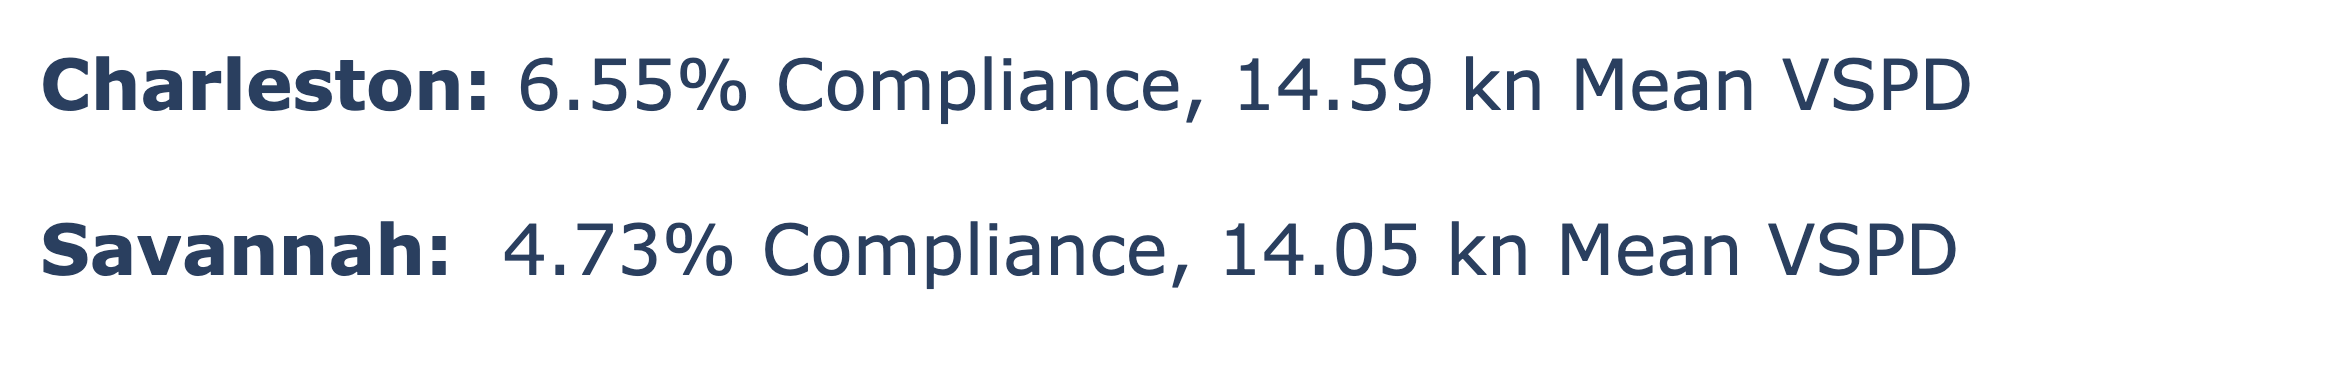
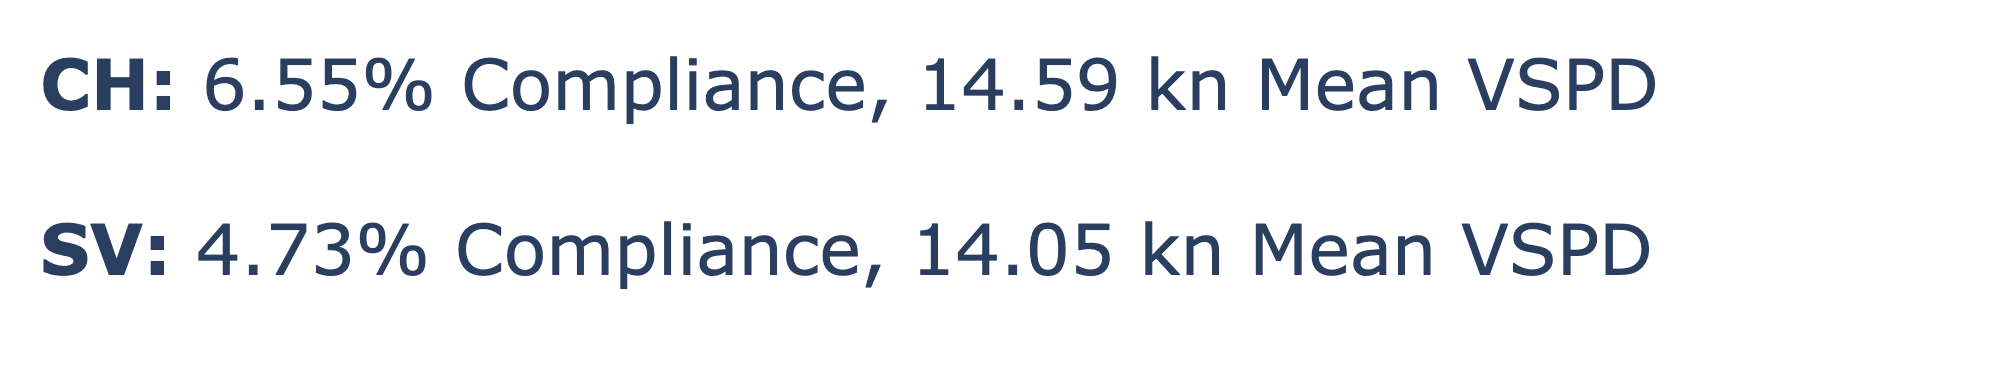
Add files via upload

Changed region(s): [[0.0, 0.5867, 0.837, 0.7627], [0.0, 0.1467, 0.837, 0.3227]]

diff --git a/ticker.html b/ticker.html
@@ -9,6 +9,6 @@ img {
 </style>
 </head>
 <body>
-<img src="seasonal_ticker.png" alt="Ticker" style="width:352.5px;height:56.25px;">
+<img src="ticker.png" alt="Ticker" style="width:352.5px;height:56.25px;">
 </body>
 </html>
